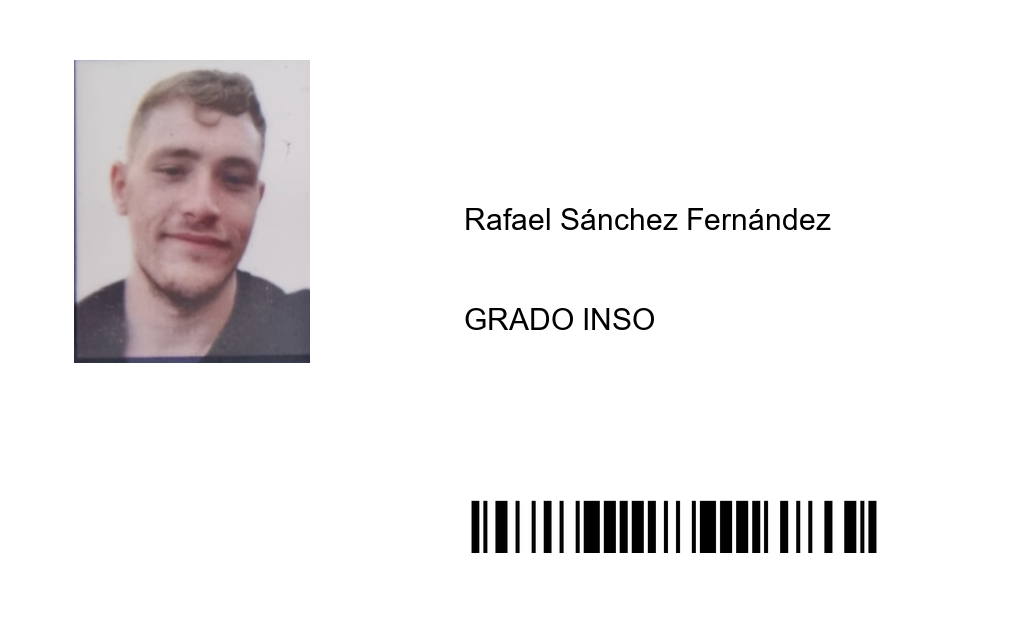
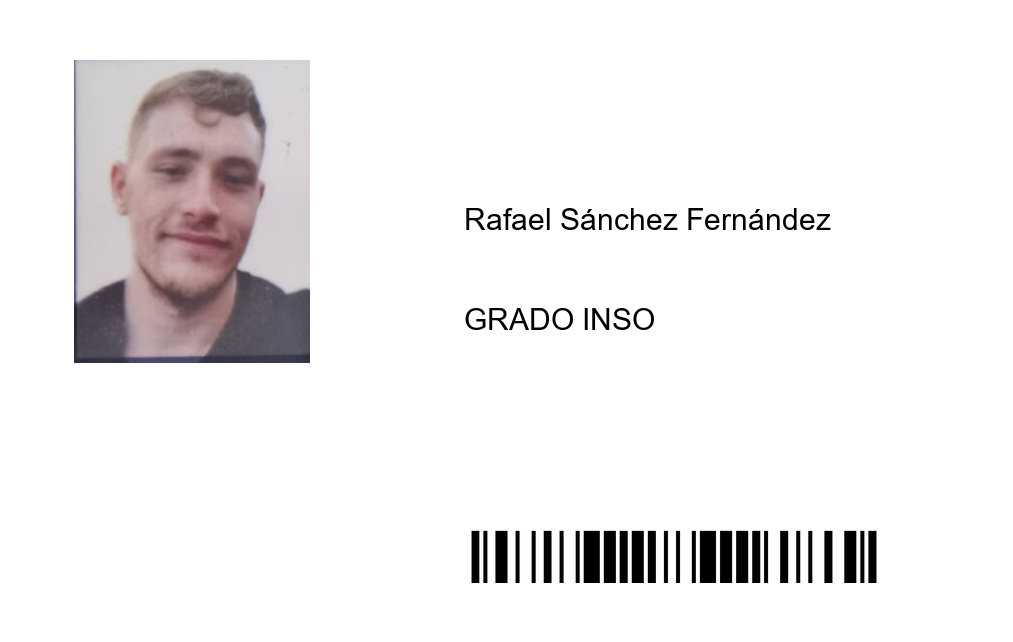
Reajuste de la generacion de carnet con mayor calidad

Changed region(s): [[0.459, 0.7788, 0.8875, 0.9346]]

diff --git a/code/prototypes/card_generator/card.py b/code/prototypes/card_generator/card.py
@@ -37,7 +37,7 @@ def generar_tarjeta(nombre, grado, dni, foto_path):
 
     # Redimensionar y pegar código de barras
     barcode_img = barcode_img.resize((420, 53), Image.LANCZOS)  # Ajuste proporcional
-    tarjeta.paste(barcode_img, (464, 500))  # Ajustado a nueva resolución
+    tarjeta.paste(barcode_img, (464, 530))  # Ajustado a nueva resolución
 
     # Dibujar texto con mayor tamaño
     draw = ImageDraw.Draw(tarjeta)
